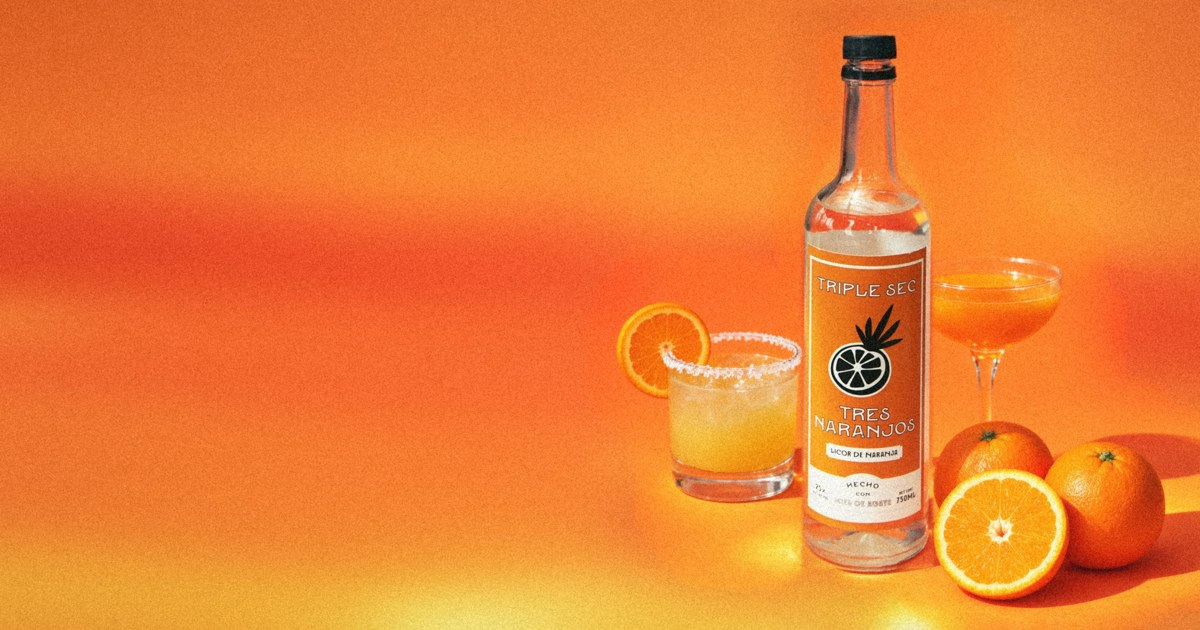
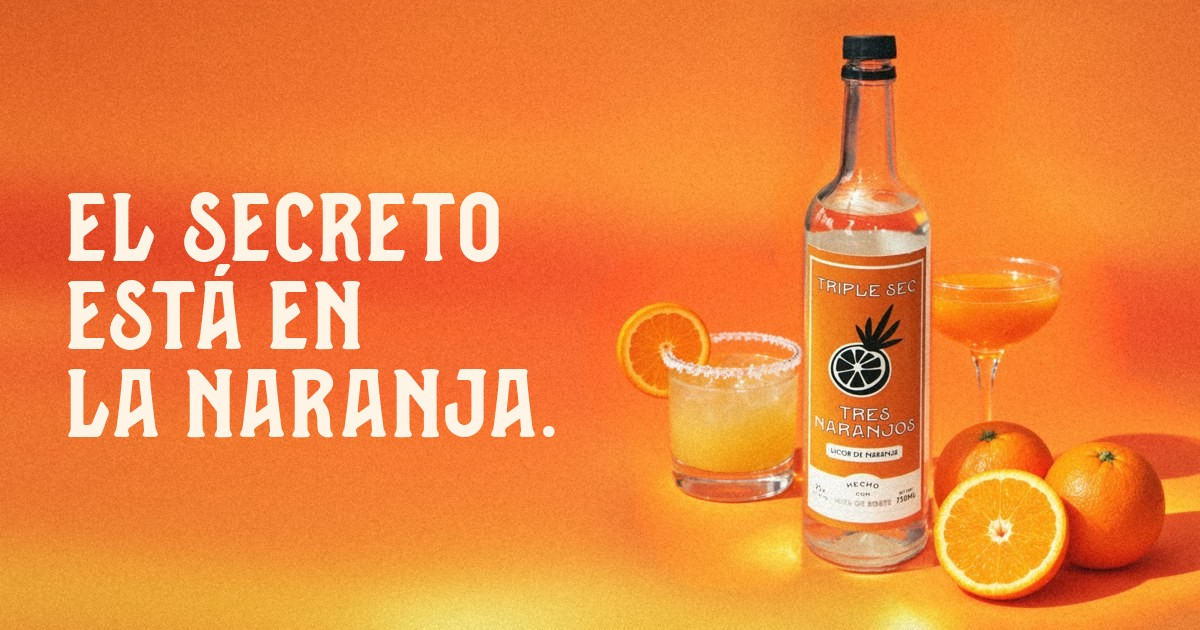
Home share card: headline El secreto está en la naranja on the photo (og:image ?v=2)
Claude-Session: https://claude.ai/code/session_01K3gZmNNFAoCCbQ8d9pkyRB

Changed region(s): [[0.0308, 0.3016, 0.4625, 0.6937]]

diff --git a/site/preguntas.html b/site/preguntas.html
@@ -3,7 +3,7 @@
 <head>
 <meta charset="utf-8">
 <meta name="viewport" content="width=device-width,initial-scale=1,viewport-fit=cover">
-<title>Preguntas frecuentes | Tres Naranjos</title><meta name="description" content="Todo sobre Tres Naranjos Triple Sec: qué es, de dónde es, cuánto alcohol tiene, dónde comprarlo en Puerto Rico y qué tragos hacer."><meta property="og:type" content="website"><meta property="og:site_name" content="Tres Naranjos"><meta property="og:title" content="Preguntas frecuentes | Tres Naranjos"><meta property="og:image" content="https://tres-naranjos-web.alfonsorodriguezlebron.workers.dev/share/home.jpg"><link rel="canonical" href="https://tres-naranjos-web.alfonsorodriguezlebron.workers.dev/preguntas"><script type="application/ld+json">{"@context": "https://schema.org", "@type": "FAQPage", "mainEntity": [{"@type": "Question", "name": "¿Qué es Tres Naranjos?", "acceptedAnswer": {"@type": "Answer", "text": "Tres Naranjos Triple Sec es un licor de naranja endulzado con miel de agave. Lo imaginamos para Puerto Rico, para que tus margaritas, mezcalitas y cócteles con tequila o mezcal queden como en la barra."}}, {"@type": "Question", "name": "¿Qué es un triple sec?", "acceptedAnswer": {"@type": "Answer", "text": "Es un licor de naranja transparente, hecho con cáscaras de naranja. Nació en Francia en el siglo XIX y hoy está en muchísimos clásicos: margarita, cosmo, sidecar, kamikaze y más. Aunque sec quiere decir seco en francés, es dulce: le da al trago el toque cítrico y dulce que lo balancea."}}, {"@type": "Question", "name": "¿Qué lo hace diferente de otros triple sec?", "acceptedAnswer": {"@type": "Answer", "text": "La miel de agave. Le da un dulzor más redondo y hace que se lleve perfecto con tequila y mezcal, que vienen de la misma planta."}}, {"@type": "Question", "name": "¿Cuánto alcohol tiene?", "acceptedAnswer": {"@type": "Answer", "text": "25% de alcohol por volumen. Viene en botella de 750 ml."}}, {"@type": "Question", "name": "¿De dónde es Tres Naranjos?", "acceptedAnswer": {"@type": "Answer", "text": "Imaginado para Puerto Rico y hecho en México. Lo produce y embotella Bodegas Collado en Ciudad de México, y lo importa Agave Imports LLC en San Juan."}}, {"@type": "Question", "name": "¿Dónde lo puedo comprar?", "acceptedAnswer": {"@type": "Answer", "text": "En más de 80 barras, restaurantes y tiendas por toda la isla. Búscalos por pueblo en la página Dónde comprar."}}, {"@type": "Question", "name": "¿Qué tragos puedo hacer con Tres Naranjos?", "acceptedAnswer": {"@type": "Answer", "text": "Margarita, mezcalita, cosmo, sidecar, spritz de china, sangría y más. Tenemos doce recetas paso a paso, y puedes ajustar las cantidades para uno o para muchos."}}, {"@type": "Question", "name": "¿Lo puedo usar en vez de otro licor de naranja?", "acceptedAnswer": {"@type": "Answer", "text": "Sí. Úsalo en la misma cantidad en cualquier receta que pida triple sec, Cointreau o licor de naranja."}}, {"@type": "Question", "name": "¿Qué relación tiene con Tres Santos Mezcal?", "acceptedAnswer": {"@type": "Answer", "text": "Somos de la misma casa. Agave Imports trae Tres Santos y Tres Naranjos, y juntos hacen la mezcalita como debe ser."}}, {"@type": "Question", "name": "Tengo un bar, restaurante o tienda. ¿Cómo lo vendo?", "acceptedAnswer": {"@type": "Answer", "text": "Escríbenos por WhatsApp o a info@agaveimportspr.com y te conectamos con nuestro equipo de ventas."}}]}</script>
+<title>Preguntas frecuentes | Tres Naranjos</title><meta name="description" content="Todo sobre Tres Naranjos Triple Sec: qué es, de dónde es, cuánto alcohol tiene, dónde comprarlo en Puerto Rico y qué tragos hacer."><meta property="og:type" content="website"><meta property="og:site_name" content="Tres Naranjos"><meta property="og:title" content="Preguntas frecuentes | Tres Naranjos"><meta property="og:image" content="https://tres-naranjos-web.alfonsorodriguezlebron.workers.dev/share/home.jpg?v=2"><link rel="canonical" href="https://tres-naranjos-web.alfonsorodriguezlebron.workers.dev/preguntas"><script type="application/ld+json">{"@context": "https://schema.org", "@type": "FAQPage", "mainEntity": [{"@type": "Question", "name": "¿Qué es Tres Naranjos?", "acceptedAnswer": {"@type": "Answer", "text": "Tres Naranjos Triple Sec es un licor de naranja endulzado con miel de agave. Lo imaginamos para Puerto Rico, para que tus margaritas, mezcalitas y cócteles con tequila o mezcal queden como en la barra."}}, {"@type": "Question", "name": "¿Qué es un triple sec?", "acceptedAnswer": {"@type": "Answer", "text": "Es un licor de naranja transparente, hecho con cáscaras de naranja. Nació en Francia en el siglo XIX y hoy está en muchísimos clásicos: margarita, cosmo, sidecar, kamikaze y más. Aunque sec quiere decir seco en francés, es dulce: le da al trago el toque cítrico y dulce que lo balancea."}}, {"@type": "Question", "name": "¿Qué lo hace diferente de otros triple sec?", "acceptedAnswer": {"@type": "Answer", "text": "La miel de agave. Le da un dulzor más redondo y hace que se lleve perfecto con tequila y mezcal, que vienen de la misma planta."}}, {"@type": "Question", "name": "¿Cuánto alcohol tiene?", "acceptedAnswer": {"@type": "Answer", "text": "25% de alcohol por volumen. Viene en botella de 750 ml."}}, {"@type": "Question", "name": "¿De dónde es Tres Naranjos?", "acceptedAnswer": {"@type": "Answer", "text": "Imaginado para Puerto Rico y hecho en México. Lo produce y embotella Bodegas Collado en Ciudad de México, y lo importa Agave Imports LLC en San Juan."}}, {"@type": "Question", "name": "¿Dónde lo puedo comprar?", "acceptedAnswer": {"@type": "Answer", "text": "En más de 80 barras, restaurantes y tiendas por toda la isla. Búscalos por pueblo en la página Dónde comprar."}}, {"@type": "Question", "name": "¿Qué tragos puedo hacer con Tres Naranjos?", "acceptedAnswer": {"@type": "Answer", "text": "Margarita, mezcalita, cosmo, sidecar, spritz de china, sangría y más. Tenemos doce recetas paso a paso, y puedes ajustar las cantidades para uno o para muchos."}}, {"@type": "Question", "name": "¿Lo puedo usar en vez de otro licor de naranja?", "acceptedAnswer": {"@type": "Answer", "text": "Sí. Úsalo en la misma cantidad en cualquier receta que pida triple sec, Cointreau o licor de naranja."}}, {"@type": "Question", "name": "¿Qué relación tiene con Tres Santos Mezcal?", "acceptedAnswer": {"@type": "Answer", "text": "Somos de la misma casa. Agave Imports trae Tres Santos y Tres Naranjos, y juntos hacen la mezcalita como debe ser."}}, {"@type": "Question", "name": "Tengo un bar, restaurante o tienda. ¿Cómo lo vendo?", "acceptedAnswer": {"@type": "Answer", "text": "Escríbenos por WhatsApp o a info@agaveimportspr.com y te conectamos con nuestro equipo de ventas."}}]}</script>
 
 <link rel="icon" type="image/png" sizes="32x32" href="favicon-32.png"><link rel="apple-touch-icon" href="apple-touch-icon.png"><meta name="theme-color" content="#FFF4E6">
 

diff --git a/site/index.html b/site/index.html
@@ -1,5 +1,7 @@
 <!doctype html><html lang="es"><head><meta charset=utf8><meta name=viewport content="width=device-width,initial-scale=1,viewport-fit=cover">
-<title>Tres Naranjos Triple Sec | Licor de naranja con miel de agave</title><meta name="description" content="Tres Naranjos Triple Sec: licor de naranja con miel de agave. Imaginado para Puerto Rico, hecho en México. Recetas de cócteles y dónde comprarlo en la isla."><meta property="og:type" content="website"><meta property="og:site_name" content="Tres Naranjos"><meta property="og:locale" content="es_PR"><meta property="og:title" content="Tres Naranjos Triple Sec"><meta property="og:description" content="Licor de naranja con miel de agave. Recetas y dónde comprarlo en Puerto Rico."><meta property="og:image" content="https://tres-naranjos-web.alfonsorodriguezlebron.workers.dev/share/home.jpg"><meta property="og:image:width" content="1200"><meta property="og:image:height" content="630"><meta property="og:url" content="https://tres-naranjos-web.alfonsorodriguezlebron.workers.dev/"><meta name="twitter:card" content="summary_large_image"><link rel="canonical" href="https://tres-naranjos-web.alfonsorodriguezlebron.workers.dev/"><script type="application/ld+json">{"@context": "https://schema.org", "@graph": [{"@type": "Organization", "name": "Tres Naranjos", "url": "https://tres-naranjos-web.alfonsorodriguezlebron.workers.dev/", "logo": "https://tres-naranjos-web.alfonsorodriguezlebron.workers.dev/icon-512.png", "email": "info@agaveimportspr.com", "sameAs": ["https://instagram.com/tresnaranjosoficial"], "parentOrganization": {"@type": "Organization", "name": "Agave Imports LLC"}}, {"@type": "Product", "name": "Tres Naranjos Triple Sec", "description": "Licor de naranja con miel de agave. 25% alc. vol., 750 ml.", "brand": {"@type": "Brand", "name": "Tres Naranjos"}, "image": "https://tres-naranjos-web.alfonsorodriguezlebron.workers.dev/share/home.jpg", "category": "Licor de naranja"}]}</script>
+<title>Tres Naranjos Triple Sec | Licor de naranja con miel de agave</title><meta name="description" content="Tres Naranjos Triple Sec: licor de naranja con miel de agave. Imaginado para Puerto Rico, hecho en México. Recetas de cócteles y dónde comprarlo en la isla."><meta property="og:type" content="website"><meta property="og:site_name" content="Tres Naranjos"><meta property="og:locale" content="es_PR"><meta property="og:title" content="Tres Naranjos Triple Sec"><meta property="og:description" content="Licor de naranja con miel de agave. Recetas y dónde comprarlo en Puerto Rico."><meta property="og:image" content="https://tres-naranjos-web.alfonsorodriguezlebron.workers.dev/share/home.jpg?v=2"><meta property="og:image:width" content="1200"><meta property="og:image:height" content="630"><meta property="og:url" content="https://tres-naranjos-web.alfonsorodriguezlebron.workers.dev/"><meta name="twitter:card" content="summary_large_image"><link rel="canonical" href="https://tres-naranjos-web.alfonsorodriguezlebron.workers.dev/"><script type="application/ld+json">{"@context": "https://schema.org", "@graph": [{"@type": "Organization", "name": "Tres Naranjos", "url": "https://tres-naranjos-web.alfonsorodriguezlebron.workers.dev/", "logo": "https://tres-naranjos-web.alfonsorodriguezlebron.workers.dev/icon-512.png", "email": "info@agaveimportspr.com", "sameAs": ["https://instagram.com/tresnaranjosoficial"], "parentOrganization": {"@type": "Organization", "name": "Agave Imports LLC"}}, {"@type": "Product", "name": "Tres Naranjos Triple Sec", "description": "Licor de naranja con miel de agave. 25% alc. vol., 750 ml.", "brand": {"@type": "Brand", "name": "Tres Naranjos"}, "image": "https://tres-naranjos-web.alfonsorodriguezlebron.workers.dev/share/home.jpg?v=2", "category": "Licor de naranja"}]}</script>
+
+
 
 
 

diff --git a/site/donde-comprar.html b/site/donde-comprar.html
@@ -3,7 +3,9 @@
 <head>
 <meta charset="utf-8">
 <meta name="viewport" content="width=device-width,initial-scale=1,viewport-fit=cover">
-<title>Dónde comprar | Tres Naranjos</title><meta property="og:type" content="website"><meta property="og:site_name" content="Tres Naranjos"><meta property="og:locale" content="es_PR"><meta property="og:title" content="Dónde comprar Tres Naranjos"><meta property="og:description" content="Bares, restaurantes y tiendas en Puerto Rico donde encontrar Tres Naranjos Triple Sec."><meta property="og:image" content="https://tres-naranjos-web.alfonsorodriguezlebron.workers.dev/share/home.jpg"><meta property="og:image:width" content="1200"><meta property="og:image:height" content="630"><meta property="og:url" content="https://tres-naranjos-web.alfonsorodriguezlebron.workers.dev/donde-comprar"><meta name="twitter:card" content="summary_large_image"><link rel="canonical" href="https://tres-naranjos-web.alfonsorodriguezlebron.workers.dev/donde-comprar"><meta name="description" content="Encuentra Tres Naranjos Triple Sec en bares, restaurantes y tiendas de Puerto Rico.">
+<title>Dónde comprar | Tres Naranjos</title><meta property="og:type" content="website"><meta property="og:site_name" content="Tres Naranjos"><meta property="og:locale" content="es_PR"><meta property="og:title" content="Dónde comprar Tres Naranjos"><meta property="og:description" content="Bares, restaurantes y tiendas en Puerto Rico donde encontrar Tres Naranjos Triple Sec."><meta property="og:image" content="https://tres-naranjos-web.alfonsorodriguezlebron.workers.dev/share/home.jpg?v=2"><meta property="og:image:width" content="1200"><meta property="og:image:height" content="630"><meta property="og:url" content="https://tres-naranjos-web.alfonsorodriguezlebron.workers.dev/donde-comprar"><meta name="twitter:card" content="summary_large_image"><link rel="canonical" href="https://tres-naranjos-web.alfonsorodriguezlebron.workers.dev/donde-comprar"><meta name="description" content="Encuentra Tres Naranjos Triple Sec en bares, restaurantes y tiendas de Puerto Rico.">
+
+
 
 
 

diff --git a/tools/build_faq.py b/tools/build_faq.py
@@ -43,7 +43,7 @@ main=f'''<main id="top" class="fq wrap">
 <script>/* one answer open at a time (older browsers that ignore name="faq") */document.querySelectorAll('.fq details').forEach(d=>d.addEventListener('toggle',()=>{{if(d.open)document.querySelectorAll('.fq details[open]').forEach(o=>{{if(o!==d)o.open=false}})}}))</script>
 <script>addEventListener('DOMContentLoaded',()=>document.querySelectorAll('.js-wa-sell').forEach(a=>a.href='https://wa.me/'+(typeof WHATSAPP!=='undefined'?WHATSAPP:'17876471157')+'?text='+encodeURIComponent('¡Hola! Tengo un negocio y me interesa vender Tres Naranjos.')))</script>'''
 a=s.index('<main id="top">'); b=s.index('</main>',a)+7; s=s[:a]+main+s[b:]
-s=s.replace('</head>',CSS+f'<meta property="og:type" content="website"><meta property="og:site_name" content="Tres Naranjos"><meta property="og:title" content="Preguntas frecuentes | Tres Naranjos"><meta property="og:image" content="{B}/share/home.jpg"><link rel="canonical" href="{B}/preguntas"><script type="application/ld+json">{json.dumps(LD,ensure_ascii=False)}</script>\n</head>',1)
+s=s.replace('</head>',CSS+f'<meta property="og:type" content="website"><meta property="og:site_name" content="Tres Naranjos"><meta property="og:title" content="Preguntas frecuentes | Tres Naranjos"><meta property="og:image" content="{B}/share/home.jpg?v=2"><link rel="canonical" href="{B}/preguntas"><script type="application/ld+json">{json.dumps(LD,ensure_ascii=False)}</script>\n</head>',1)
 a=s.index('/* =====================================================================\n   RECETAS'); b=s.index('</script>',a)
 s=s[:a]+"(function(){const n=document.getElementById('nav');if(n)document.documentElement.style.setProperty('--navh',n.offsetHeight+'px')})();\n"+s[b:]
 s=re.sub(r'<style>\.t-page\{[^<]*</style>\n','',s)

diff --git a/tools/build_cards.py b/tools/build_cards.py
@@ -9,7 +9,7 @@
 #   the same hard warm sunlight, the same backdrop color, the same soft leaf shadows and the same fine film grain.
 #   Do not redraw or change the glass or the drink. Place the glass in the left third of the frame. The right two
 #   thirds is the same continuous seamless backdrop with soft dappled leaf shadows, plain and empty, with room for a
-#   title. No text, no logos, no extra objects. share/home.jpg is hand-made and not touched here.
+#   title. No text, no logos, no extra objects. share/home.jpg (home share card) is the hand-made photo in tools/share-src/home-clean.jpg plus the hero headline in cream; it is not built here. Bump its ?v= when it changes.
 import os, json
 from PIL import Image, ImageDraw, ImageFont, ImageOps, ImageFilter
 import numpy as np
